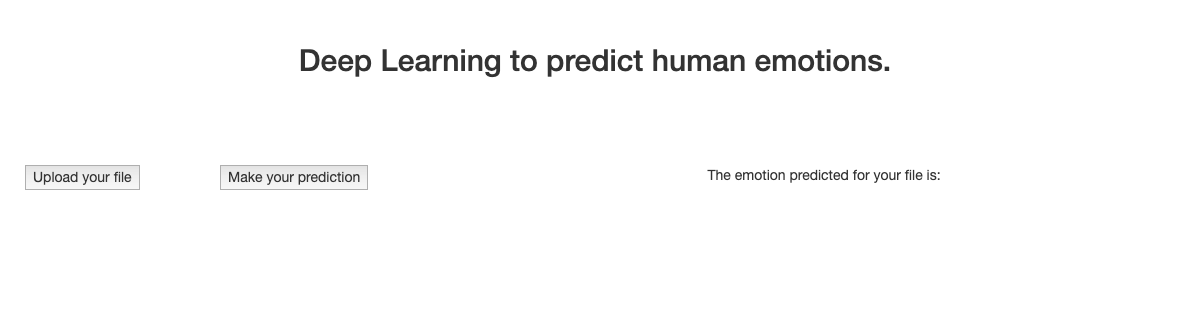
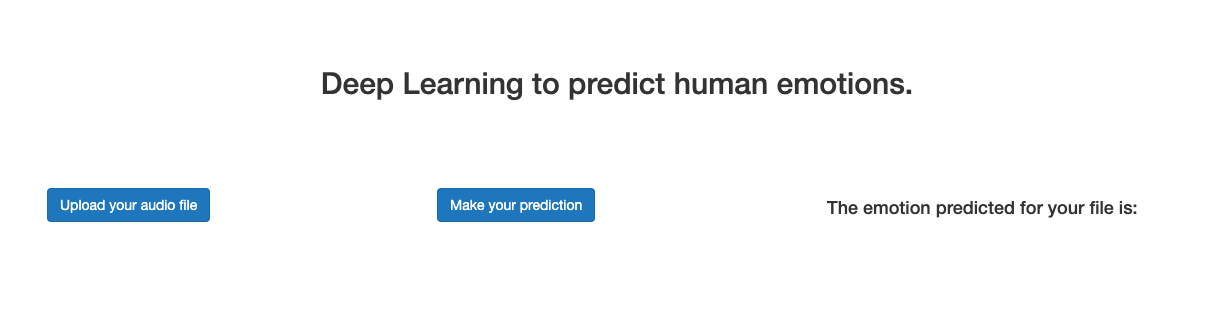
README updated

diff --git a/README.md b/README.md
@@ -54,10 +54,13 @@ If you do not know how Django works, you can skip to the ``App/views.py`` file t
 2) ```git clone https://github.com/marcogdepinto/Django-Emotion-Classification-Ravdess-API.git```
 3) Open a terminal window, ```cd``` into the project folder and run ```python manage.py runserver```.
 
+**How to run the tests**
+```python manage.py test```
+
 **Interface (WIP)**
 
 There will be a simple frontend to upload the files and make queries to the API at ```/App/Index``
 
-This is still work in progress: below the actual mockup.
+This is still work in progress: below the actual mockup. At the moment only the file upload function is working
 
  ![Picture2](https://github.com/marcogdepinto/Django-Emotion-Classification-Ravdess-API/blob/master/gitmedia/interface.png)
